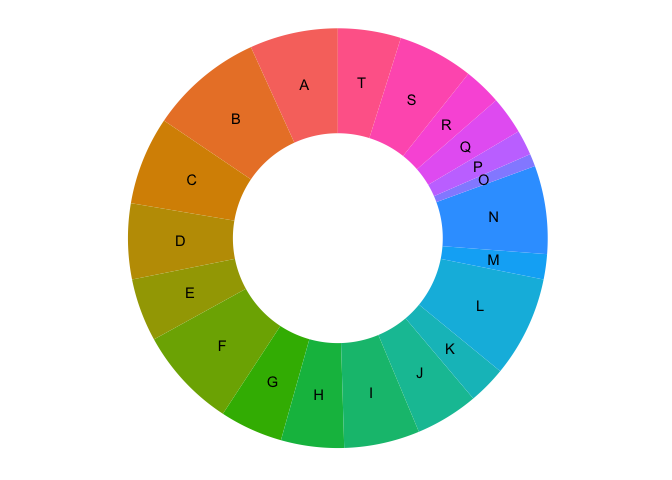
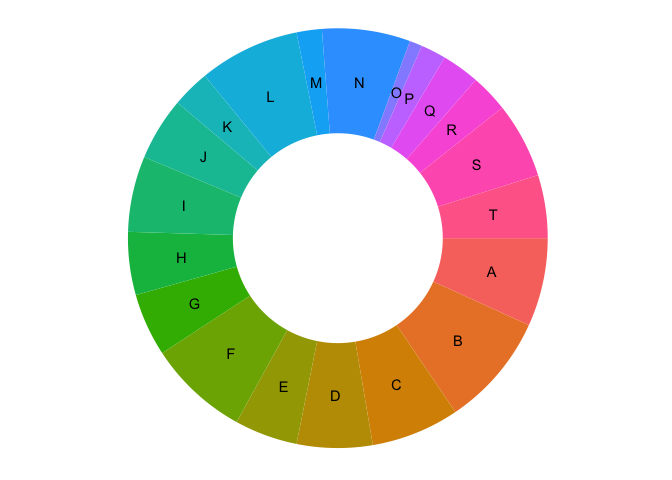
update readme

Changed region(s): [[0.1875, 0.0312, 0.8125, 0.9375], [0.3125, 0.7188, 0.3438, 0.75]]

diff --git a/README.md b/README.md
@@ -66,47 +66,16 @@ piechart(dd, aes(r1 = value, label = label), value = 1, r0 = 0.5,
 <img src="man/figures/README-example-4.png" width="100%" />
 
 ``` r
-## barchart
-library(ggplot2)
-ggplot(dd, aes(label, value)) +
-  geom_bar(stat = "identity")
-```
 
-<img src="man/figures/README-example-5.png" width="100%" />
-
-``` r
-piechart(dd, aes(r1 = scales::rescale(value, c(0.5, 1), range(value)),  label = label), 
-         value = 1, r0 = 0.4, sep = 1, sum_value = 60, start = 30.5) +
-    anno_rect(0.4, 1.05, 30, 150, fill = "grey95", colour = "grey35", size = 0.4) +
-    geom_pie(fill = "pink") +
-    geom_pie_text(facing = "binding", position = "top-inside") +
-    anno_rho_axis(breaks = 1:20,
-                  labels = LETTERS[1:20],
-                  scale = c(.5, 20.5), 
-                  start = 30.5, 
-                  end = 149.5,
-                  r = 0.4) +
-    anno_alpha_axis(breaks = scales::rescale(c(2, 4, 6, 8), 
-                                             c(0.5, 1), range(dd$value)),
-                    labels = c(2, 4, 6, 8),
-                    scale = c(0.5, 1),
-                    r0 = 0.4, 
-                    r1 = 1,
-                    angle = 150) 
-```
-
-<img src="man/figures/README-example-6.png" width="100%" />
-
-``` r
 ## arc heatmap
 library(magrittr)
 as.matrix(iris[-5]) %>% 
-  as_piechart_data(start = 100, open = 20, r0 = 0.8) %>% 
+  as_piechart_data(start = 80, end = 100, r0 = 0.8) %>% 
   piechart(xlim = c(-1.2, 1.2), ylim = c(-1.2, 1.2)) +
   geom_pie(aes(fill = value), colour = "white", size = 0.3) +
   geom_rtext(position = "top-outside", size = 2.5) +
   geom_ctext(hjust = "middle", size = 2.5) +
-  scale_fill_viridis_c()
+  ggplot2::scale_fill_viridis_c()
 ```
 
-<img src="man/figures/README-example-7.png" width="100%" />
+<img src="man/figures/README-example-5.png" width="100%" />
